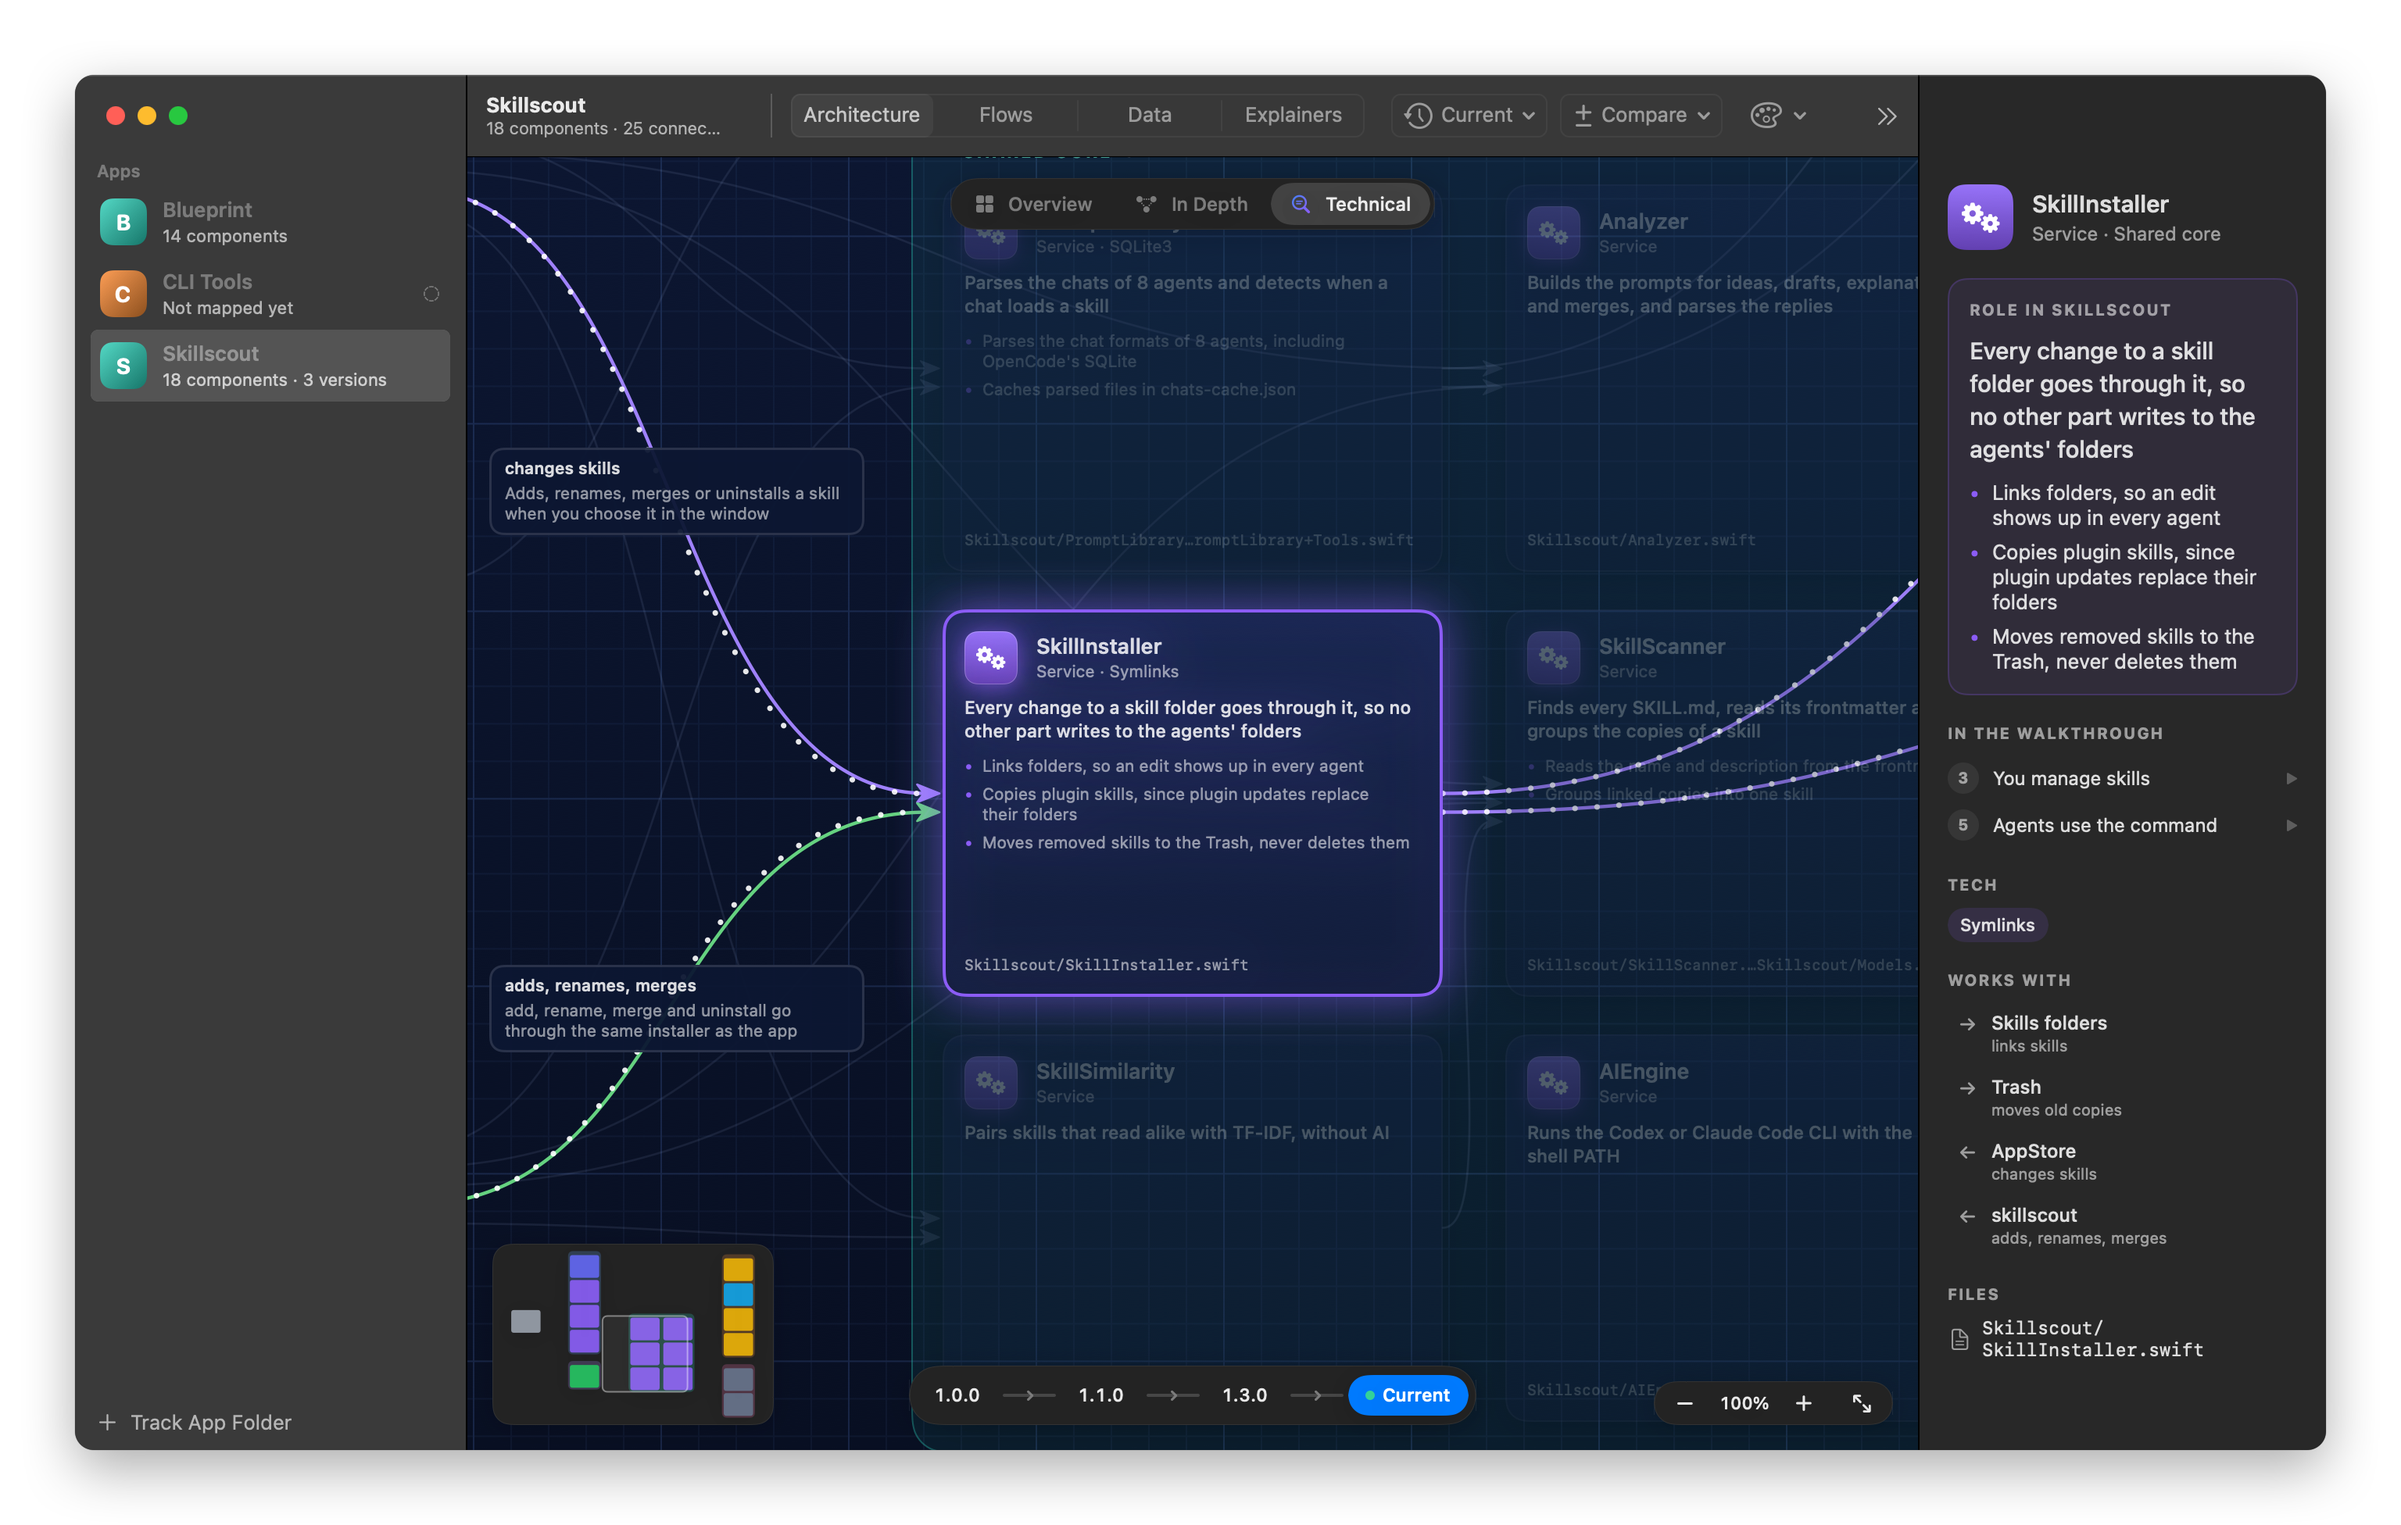
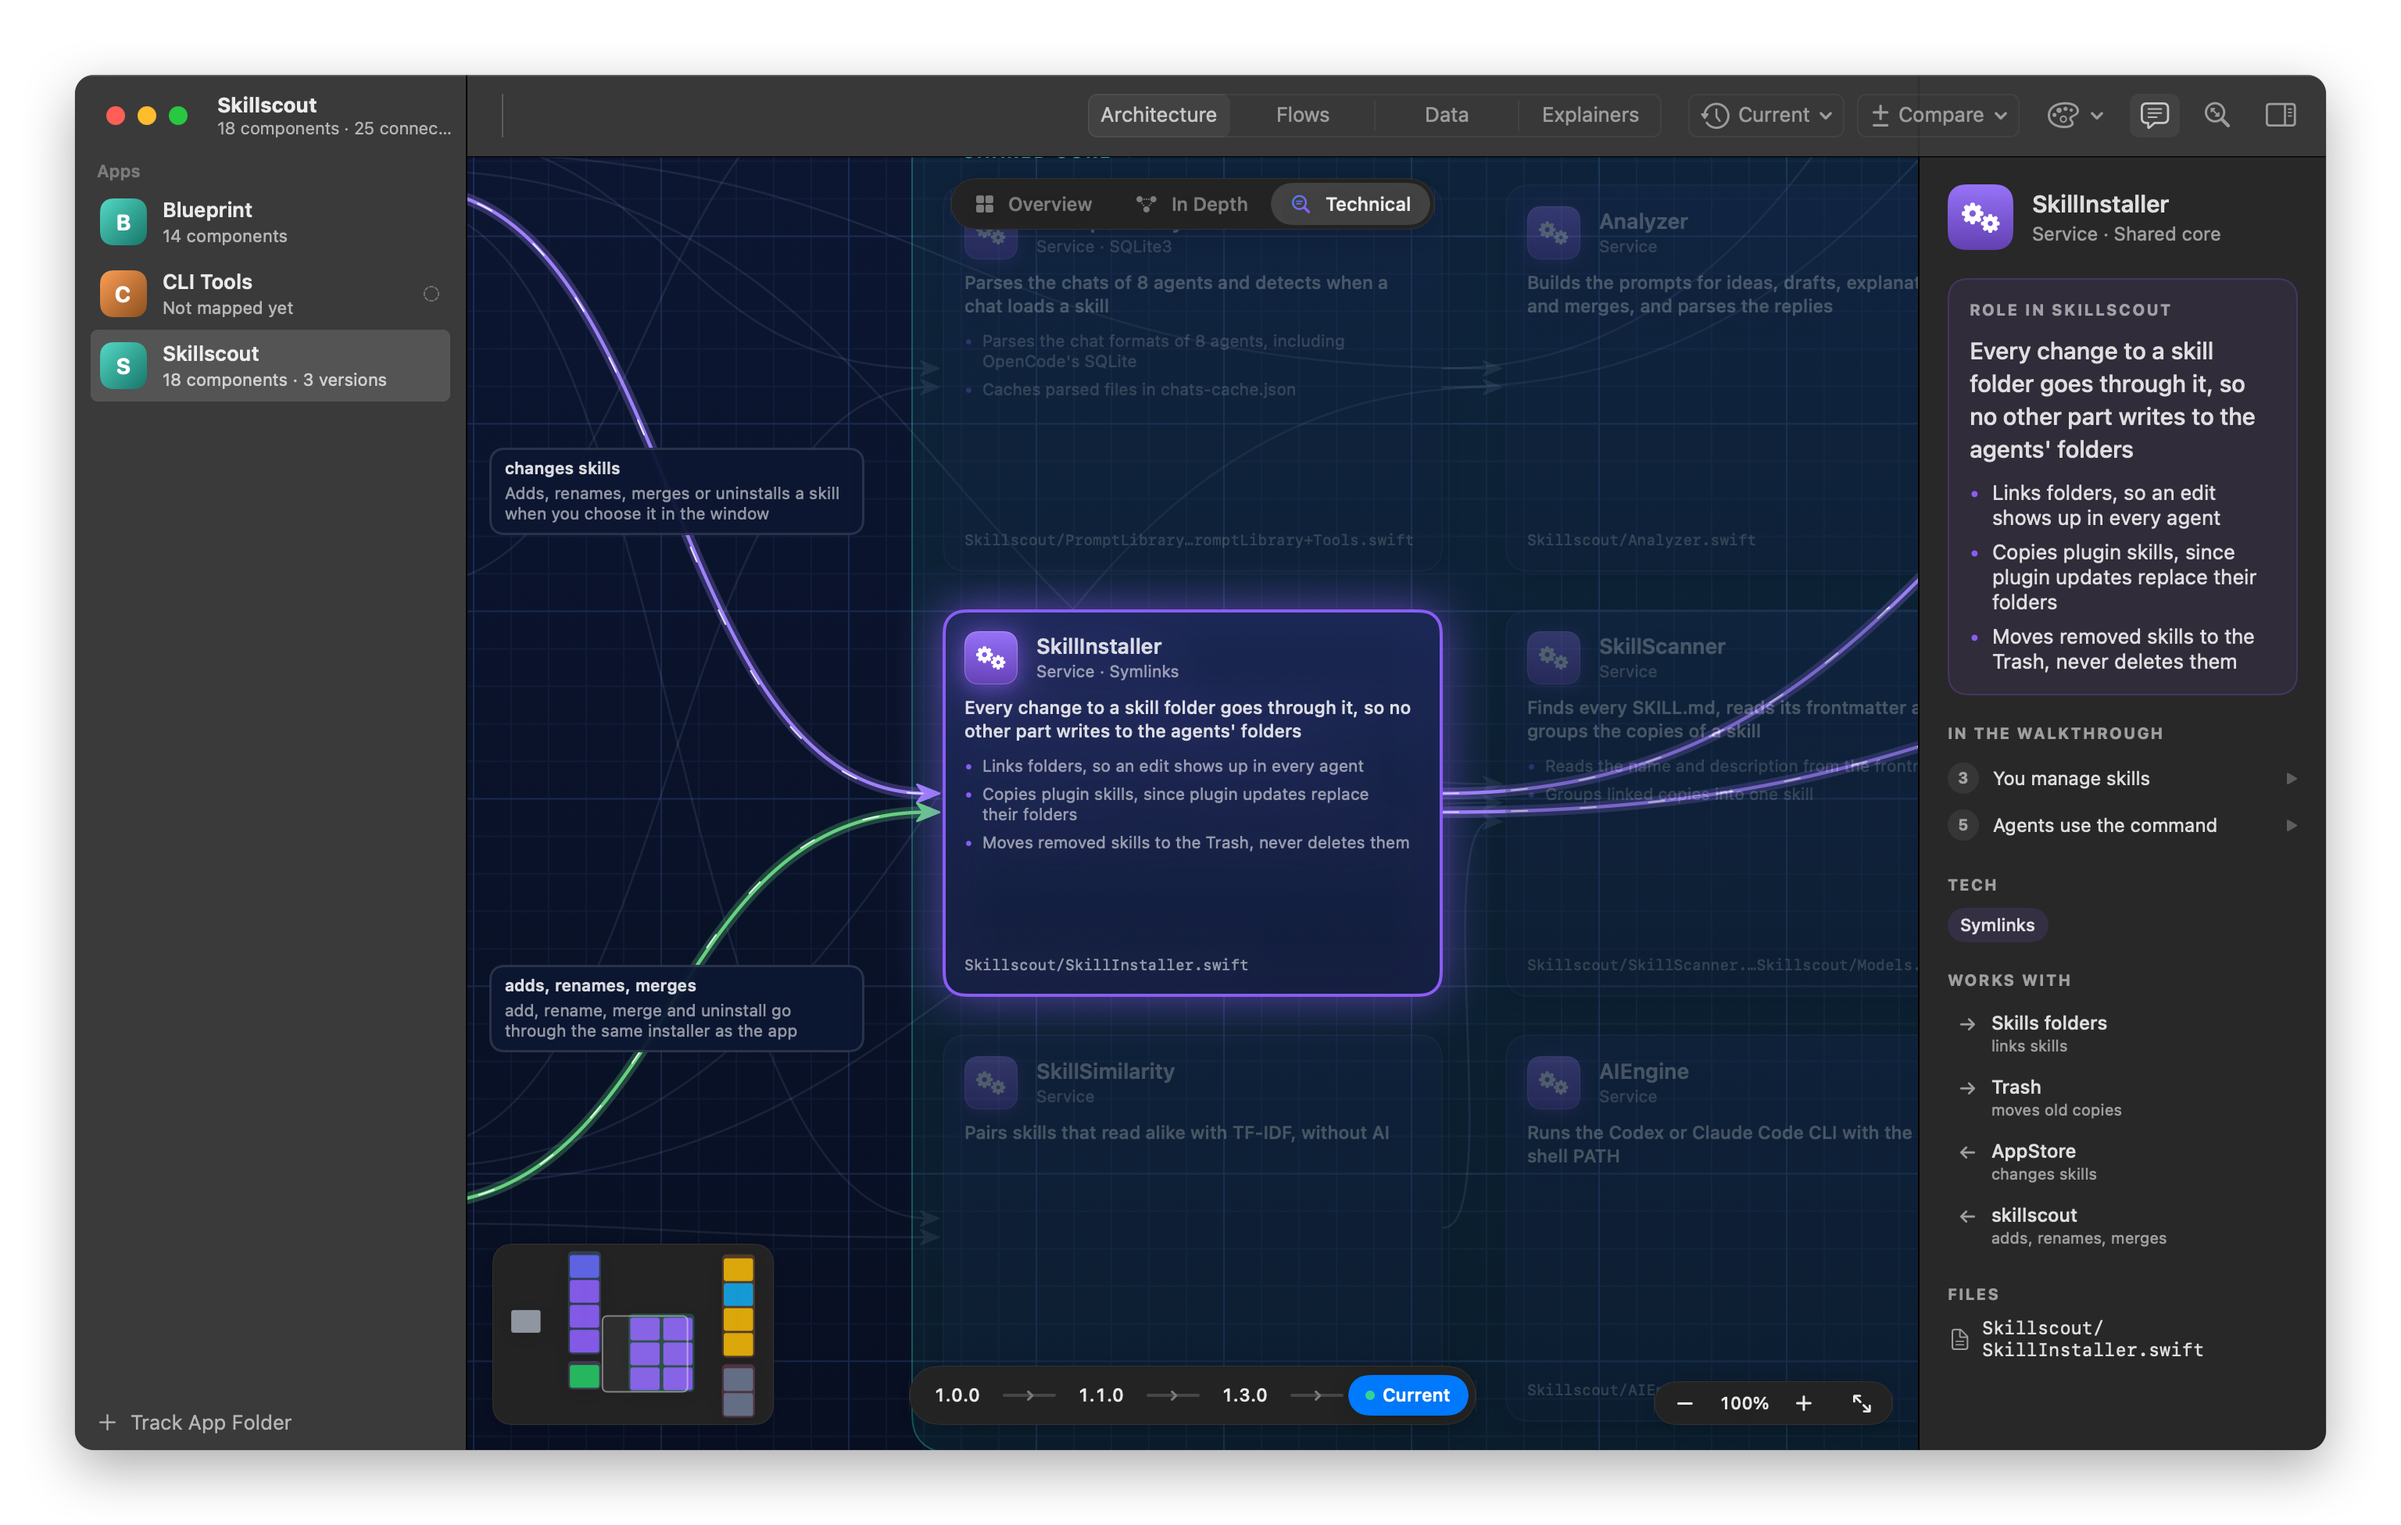
Highlighted connections: a soft halo and short pulses inside the line instead of beads on top

diff --git a/Blueprint/DiagramCanvas.swift b/Blueprint/DiagramCanvas.swift
@@ -927,6 +927,9 @@ struct EdgeView: View {
 
   /// Blueprint and Terminal show data moving along a highlighted connection; the quieter themes don't.
   private var flows: Bool { theme == .blueprint || theme == .terminal }
+  /// The pulses' length and spacing, in world points. They stay fixed as you zoom, so the looping phase never jumps.
+  private static let pulse: CGFloat = 10
+  private static let gap: CGFloat = 34
 
   var body: some View {
     let base: (normal: CGFloat, highlighted: CGFloat) = switch theme {
@@ -941,6 +944,11 @@ struct EdgeView: View {
     let inset = ArrowHead.clearance + ArrowHead.lineInset(arrow)
     let orthogonal = DiagramStyle(theme, scheme).isOrthogonal
     ZStack {
+      if isHighlighted, theme == .blueprint {
+        // A soft halo in the line's color, so a lit connection stands out without a costly shadow.
+        RouteShape(route: route, endInset: inset, orthogonal: orthogonal)
+          .stroke(stroke.opacity(scheme == .dark ? 0.26 : 0.18), style: StrokeStyle(lineWidth: width * 3.4, lineCap: .round, lineJoin: .round))
+      }
       RouteShape(route: route, endInset: inset, orthogonal: orthogonal)
         .stroke(stroke, style: StrokeStyle(lineWidth: width, lineCap: orthogonal ? .square : .round, lineJoin: orthogonal ? .miter : .round, dash: dash))
       ArrowShape(route: route, length: arrow, orthogonal: orthogonal)
@@ -948,10 +956,11 @@ struct EdgeView: View {
       ArrowShape(route: route, length: arrow, orthogonal: orthogonal)
         .stroke(stroke, style: StrokeStyle(lineWidth: width * 0.6, lineJoin: .round))
       if isHighlighted, flows {
-        RouteShape(route: route, endInset: ArrowHead.clearance + arrow, orthogonal: orthogonal)
-          .stroke(theme == .terminal ? Color.white : .white.opacity(0.9), style: StrokeStyle(lineWidth: width * 1.6, lineCap: .round, dash: [0.1, 14], dashPhase: phase))
+        // Short pulses inside the line, narrower than it, so data seems to travel through it.
+        RouteShape(route: route, endInset: inset + width, orthogonal: orthogonal)
+          .stroke(.white.opacity(theme == .terminal ? 0.95 : 0.85), style: StrokeStyle(lineWidth: width * 0.45, lineCap: .round, dash: [Self.pulse, Self.gap], dashPhase: phase))
           .onAppear {
-            withAnimation(.linear(duration: 0.9).repeatForever(autoreverses: false)) { phase = -14.1 }
+            withAnimation(.linear(duration: 1.2).repeatForever(autoreverses: false)) { phase = -(Self.pulse + Self.gap) }
           }
       }
     }

diff --git a/scripts/screenshot.swift b/scripts/screenshot.swift
@@ -205,9 +205,12 @@ final class ActiveWindow: NSWindow {
 @MainActor
 func capture(_ store: AppStore, host: NSHostingController<AnyView>, window: NSWindow) async {
   store.start()
-  // SCENES=screenshot-level renders only the scenes whose names start with it.
-  let prefix = ProcessInfo.processInfo.environment["SCENES"] ?? ""
-  for scene in scenes where scene.name.hasPrefix(prefix) {
+  // SCENES=screenshot,screenshot-level* renders only those scenes; a name ending in * matches the start of names.
+  let wanted = (ProcessInfo.processInfo.environment["SCENES"] ?? "").split(separator: ",").map(String.init)
+  func isWanted(_ name: String) -> Bool {
+    wanted.isEmpty || wanted.contains { $0.hasSuffix("*") ? name.hasPrefix($0.dropLast()) : name == $0 }
+  }
+  for scene in scenes where isWanted(scene.name) {
     if scene.app != nil, store.apps.isEmpty {
       setenv("BLUEPRINT_HOME", demoHome.path, 1)
       store.reload()

diff --git a/AGENTS.md b/AGENTS.md
@@ -54,7 +54,7 @@ scripts/fuzz-layout.sh             # 400 random architectures, 300 random flows 
 - The levels change what the architecture canvas says, not how it's laid out. The overview is the architecture `overviewMap` builds from the blocks, and Technical is the same diagram with bigger `Metrics`, both through `DiagramLayout`. In Depth stays exactly as it was, and the explainers and the welcome demo always use it.
 - When the format changes, update `CLI/Guide.swift`, the checks in `Validation.swift`, the demo files in `scripts/demo`, and the description in `skill/blueprint/SKILL.md`, which lists what agents can map. Decoding stays lenient (missing arrays are empty, unknown kinds draw as services), and validation stays strict.
 - `BLUEPRINT_HOME` moves the data folder. Test the command and the app against a made-up one, never your real data: `BLUEPRINT_HOME=/tmp/blueprint-test blueprint add ~/Projects/my-app`. Launch the app with `open --env BLUEPRINT_HOME=/tmp/blueprint-test build/release/Release/Blueprint.app`.
-- `scripts/screenshot.sh` renders the real views into its own window with `cacheDisplay`, because the terminal can't capture other windows. Look at every image after a UI change. A window that comes out enormous means a view reports a huge minimum size, usually text with `.fixedSize(horizontal: false, vertical: true)` and no definite width. Given an architecture file, it renders that map fitted, zoomed out, with a component selected, on a walkthrough step, in Flows by actor and by area, in Data, on an explainer slide, in each theme, and at the overview and technical levels. To check a problem seen at another zoom, give a `DemoScene` zoom steps with `zoomOut` (negative zooms in). To render only some scenes, set `SCENES` to the start of their names, like `SCENES=screenshot-level`.
+- `scripts/screenshot.sh` renders the real views into its own window with `cacheDisplay`, because the terminal can't capture other windows. Look at every image after a UI change. A window that comes out enormous means a view reports a huge minimum size, usually text with `.fixedSize(horizontal: false, vertical: true)` and no definite width. Given an architecture file, it renders that map fitted, zoomed out, with a component selected, on a walkthrough step, in Flows by actor and by area, in Data, on an explainer slide, in each theme, and at the overview and technical levels. To check a problem seen at another zoom, give a `DemoScene` zoom steps with `zoomOut` (negative zooms in). To render only some scenes, list them in `SCENES`, with `*` matching the start of names, like `SCENES=screenshot,screenshot-level*`. Regenerate only the images the README shows unless the change affects them all, because every regenerated PNG stays in the repo's history.
 - The layout must place every card without overlaps for any graph: cycles, self-connections, empty groups, nodes without a group and entities without a store included. After changing `Layout.swift`, `FlowDiagram.swift` or `DataLayout`, run `scripts/fuzz-layout.sh`, then look at the screenshots. The demo architectures are small, so also check a real map with 20 or more components: export one with `blueprint show <app> --json > /tmp/app.json` and pass it to `scripts/screenshot.sh`. Don't commit other apps' architectures.
 - The words are half the product: people open an app to learn how it works. Keep the inspector scannable, with the role in large type first and short points after it, and keep `blueprint guide` asking agents for a walkthrough, roles and details written for a newcomer.
 - On the canvas, attach gestures and `.onHover` to a card before `.position`: after it, they cover the whole diagram and the last card takes every click. Don't put `.help` tooltips on canvas views either, since they take clicks and hover away from SwiftUI's gestures.
